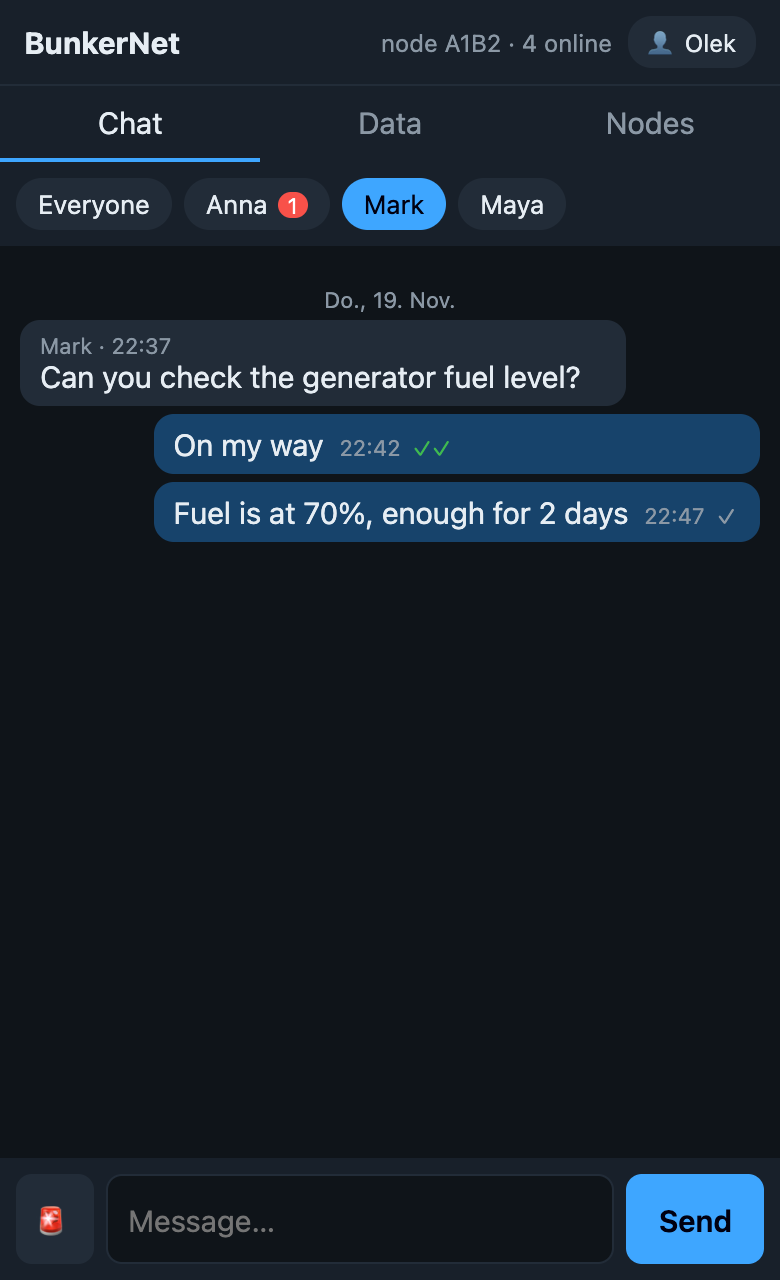
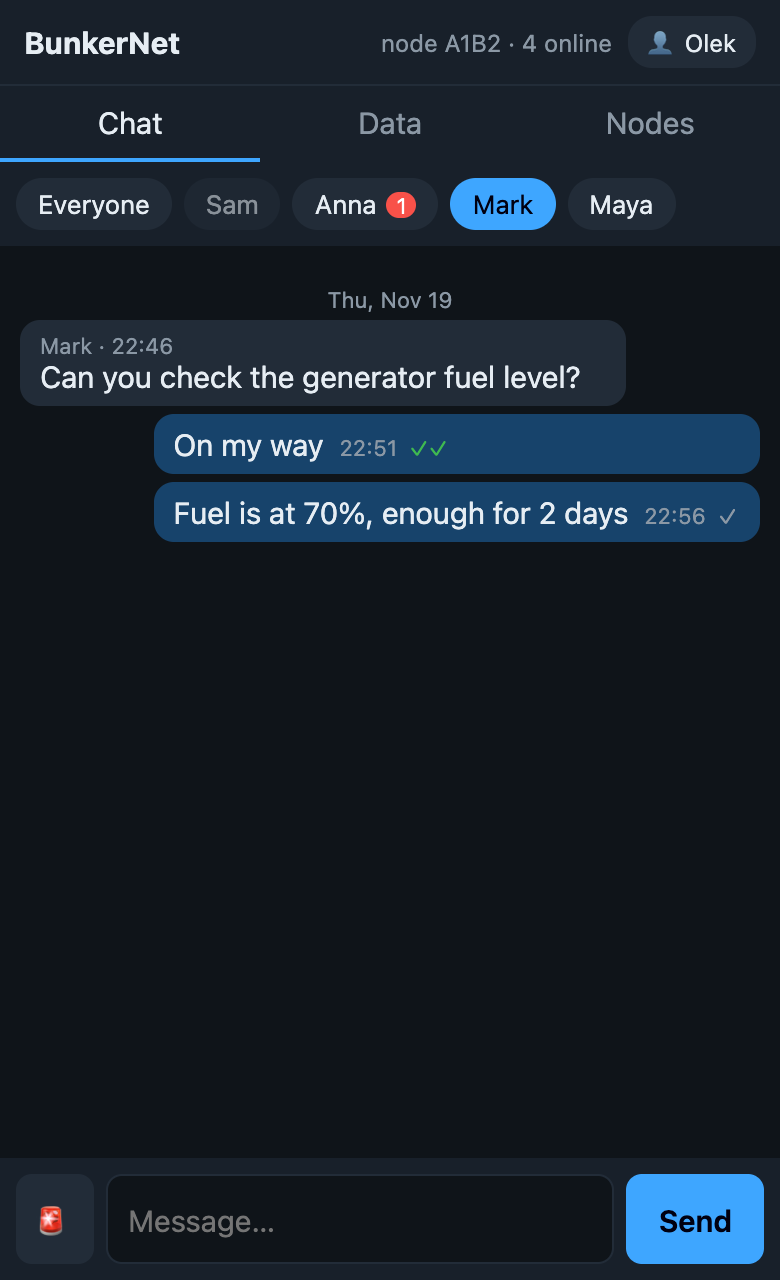
Add store-and-forward for private messages to offline users
Every node keeps a 12-message mailbox until a delivery receipt is seen; the
recipient collects held messages from any node when they next appear, and the
origin re-floods undelivered messages on a back-off schedule. The web app
remembers contacts, shows stored status, and resyncs when roaming between nodes.

diff --git a/tools/screenshots/shoot.js b/tools/screenshots/shoot.js
@@ -8,23 +8,31 @@ const path = require('path');
 
 const CHROME = process.env.CHROME || '/Applications/Google Chrome.app/Contents/MacOS/Google Chrome';
 const OUT = path.join(__dirname, '../../docs/screenshots');
-const MOCK = 8099, CDP = 9333;
+const MOCK = 8099;
 const sleep = (ms) => new Promise((r) => setTimeout(r, ms));
 
 async function main() {
   fs.mkdirSync(OUT, { recursive: true });
   const mock = spawn('node', [path.join(__dirname, 'mock_server.js'), String(MOCK)], { stdio: 'ignore' });
   const profile = fs.mkdtempSync(path.join(os.tmpdir(), 'bn-shot-'));
-  const chrome = spawn(CHROME, [
-    '--headless=new', `--remote-debugging-port=${CDP}`, `--user-data-dir=${profile}`,
-    '--no-first-run', '--lang=en-US', '--hide-scrollbars', 'about:blank',
-  ], { stdio: 'ignore' });
-  try {
-    let targets;
-    for (let i = 0; i < 100 && !targets; i++) {
-      try { targets = await (await fetch(`http://127.0.0.1:${CDP}/json`)).json(); } catch { await sleep(300); }
+  let chrome, CDP, targets;
+  // Chrome picks a free debugging port and writes it to DevToolsActivePort in the profile dir.
+  // Occasionally it does not come up (e.g. right after a previous run), so retry a few times.
+  for (let attempt = 0; attempt < 4 && !targets; attempt++) {
+    chrome = spawn(CHROME, [
+      '--headless=new', '--remote-debugging-port=0', `--user-data-dir=${profile}`,
+      '--no-first-run', '--lang=en-US', '--hide-scrollbars', 'about:blank',
+    ], { stdio: 'ignore' });
+    for (let i = 0; i < 40 && !targets; i++) {
+      try {
+        CDP = fs.readFileSync(path.join(profile, 'DevToolsActivePort'), 'utf8').split('\n')[0];
+        targets = await (await fetch(`http://127.0.0.1:${CDP}/json`)).json();
+      } catch { await sleep(300); }
     }
-    if (!targets) throw new Error("Chrome remote debugging port did not come up");
+    if (!targets) { chrome.kill('SIGKILL'); await sleep(1500); }
+  }
+  try {
+    if (!targets) throw new Error('Chrome remote debugging port did not come up');
     const page = targets.find((t) => t.type === 'page');
     const ws = new WebSocket(page.webSocketDebuggerUrl);
     await new Promise((r) => (ws.onopen = r));
@@ -41,11 +49,11 @@ async function main() {
 
     await cdp('Page.enable');
     await cdp('Emulation.setDeviceMetricsOverride', { width: 390, height: 640, deviceScaleFactor: 2, mobile: true });
-    await cdp('Emulation.setEmulatedMedia', { features: [] });
+    await cdp('Emulation.setLocaleOverride', { locale: 'en-US' });
     const open = async () => {
       await cdp('Page.navigate', { url: `http://127.0.0.1:${MOCK}/` });
       await sleep(600);
-      await js("localStorage.setItem('uid','0000d004');localStorage.setItem('name','Olek');location.reload()");
+      await js("localStorage.setItem('uid','0000d004');localStorage.setItem('contacts','{\"0000e005\":\"Sam\"}');localStorage.setItem('name','Olek');location.reload()");
       await sleep(1200);
     };
 
@@ -55,6 +63,9 @@ async function main() {
 
     await js("document.querySelector('.chip[data-c=\"0000b002\"]').click()");
     await shot('private');
+
+    await js("document.querySelector('.chip[data-c=\"0000e005\"]').click()");
+    await shot('offline');
 
     await js("document.querySelector('nav button[data-t=data]').click()");
     await shot('data');

diff --git a/tools/screenshots/mock_server.js b/tools/screenshots/mock_server.js
@@ -9,7 +9,7 @@ const port = Number(process.argv[2] || 8080);
 const src = fs.readFileSync(path.join(__dirname, '../../firmware/bunkernet/web_ui.h'), 'utf8');
 const html = src.match(/R"HTML\(([\s\S]*?)\)HTML"/)[1];
 
-const ANNA = '0000a001', MARK = '0000b002', MAYA = '0000c003';
+const ANNA = '0000a001', MARK = '0000b002', MAYA = '0000c003', SAM = '0000e005'; // Sam is offline
 const state = { alert: false };
 
 // f === 'me' is replaced by the requesting client's id
@@ -23,6 +23,7 @@ const msgs = [
   { i: 7, t: 2, f: 'me', to: MARK, m: '00000007', n: 'Olek', x: 'On my way', ago: 900 },
   { i: 8, t: 2, f: 'me', to: MARK, m: '00000008', n: 'Olek', x: 'Fuel is at 70%, enough for 2 days', ago: 600 },
   { i: 9, t: 2, f: ANNA, to: 'me', m: '00000009', n: 'Anna', x: 'Are you bringing the fuses?', ago: 300 },
+  { i: 11, t: 2, f: 'me', to: SAM, m: '0000000b', n: 'Olek', x: 'Filter instructions are taped to the fridge', ago: 240 },
   { i: 10, t: 5, f: MARK, to: 'me', m: '00000007', n: '', x: '', ago: 590 },
 ];
 const users = [{ id: ANNA, n: 'Anna' }, { id: MARK, n: 'Mark' }, { id: MAYA, n: 'Maya' }];

diff --git a/firmware/bunkernet/web_ui.h b/firmware/bunkernet/web_ui.h
@@ -16,7 +16,7 @@ main{flex:1;overflow:auto;padding:10px;display:none}main.on{display:block}
 #chat.on{display:flex;flex-direction:column;padding:0}
 #convs{display:flex;gap:6px;overflow-x:auto;padding:8px;background:var(--p)}
 .chip{white-space:nowrap;padding:5px 11px;border-radius:14px;background:var(--p2);color:var(--t);border:0;font:inherit;font-size:13px}
-.chip.on{background:var(--a);color:#001}.chip i{font-style:normal;background:var(--r);color:#fff;border-radius:8px;padding:0 5px;margin-left:5px;font-size:11px}
+.chip.off{opacity:.55}.chip.on{background:var(--a);color:#001}.chip i{font-style:normal;background:var(--r);color:#fff;border-radius:8px;padding:0 5px;margin-left:5px;font-size:11px}
 #msgs{flex:1;overflow:auto;padding:10px}
 .m{max-width:82%;margin:4px 0;padding:6px 10px;border-radius:10px;background:var(--p2);word-wrap:break-word}
 .m.me{margin-left:auto;background:#17436b}.m small{display:block;color:var(--m);font-size:11px}
@@ -46,8 +46,11 @@ table{width:100%;border-collapse:collapse}td,th{padding:7px 4px;border-bottom:1p
 const $=s=>document.querySelector(s),E=s=>String(s).replace(/[&<>"]/g,c=>({'&':'&amp;','<':'&lt;','>':'&gt;','"':'&quot;'}[c]));
 const ls=(k,v)=>{try{if(v===undefined)return localStorage.getItem(k);localStorage.setItem(k,v)}catch(e){return null}};
 let me=ls('uid');if(!me){me=('0000000'+((Math.random()*4294967294+1)>>>0).toString(16)).slice(-8);ls('uid',me)}
-let name=ls('name')||'',since=0,dv=-1,av=-1,alerts=[],seenAl={},hidAl={},alertMode=0,msgs=[],acked=new Set(),users=[],unread={},cur='all',busy=0,tab='chat',node='';
-const uname=id=>{const u=users.find(u=>u.id==id);return u?u.n:id.slice(0,4)};
+let name=ls('name')||'',since=0,dv=-1,av=-1,alerts=[],seenAl={},hidAl={},alertMode=0,msgs=[],acked=new Set(),users=[],unread={},cur='all',busy=0,tab='chat',node='',seenM=new Set(),contacts={};
+try{contacts=JSON.parse(ls('contacts')||'{}')}catch(e){}
+const online=id=>users.some(u=>u.id==id);
+const uname=id=>{const u=users.find(u=>u.id==id);return u?u.n:(contacts[id]||id.slice(0,4))};
+const ph=()=>alertMode?'Emergency alert text…':(cur!='all'&&!online(cur)?uname(cur)+' is offline: will be stored':'Message…');
 function askName(edit){if(name&&!edit)return;$('#ni2').value=name;$('#nc').hidden=!name;$('#nm').hidden=0;$('#ni2').focus()}
 function who(){$('#who').textContent='👤 '+(name||'?')}
 $('#who').onclick=()=>askName(1);$('#nc').onclick=()=>{$('#nm').hidden=1};
@@ -60,17 +63,21 @@ document.querySelectorAll('nav button').forEach(b=>b.onclick=()=>{tab=b.dataset.
 const key=m=>m.t==1?'all':(m.f==me?m.to:m.f);
 function render(){
  let h='<button class="chip'+(cur=='all'?' on':'')+'" data-c="all">Everyone'+(unread.all?'<i>'+unread.all+'</i>':'')+'</button>';
- users.filter(u=>u.id!=me).forEach(u=>h+='<button class="chip'+(cur==u.id?' on':'')+'" data-c="'+u.id+'">'+E(u.n)+(unread[u.id]?'<i>'+unread[u.id]+'</i>':'')+'</button>');
+ const peers={};Object.keys(contacts).forEach(id=>peers[id]={id,n:contacts[id],off:1});users.forEach(u=>peers[u.id]={id:u.id,n:u.n,off:0});delete peers[me];
+ Object.values(peers).forEach(u=>h+='<button class="chip'+(u.off?' off':'')+(cur==u.id?' on':'')+'" data-c="'+u.id+'">'+E(u.n)+(unread[u.id]?'<i>'+unread[u.id]+'</i>':'')+'</button>');
  $('#convs').innerHTML=h;
  $('#convs').querySelectorAll('.chip').forEach(c=>c.onclick=()=>{cur=c.dataset.c;unread[cur]=0;render()});
  const box=$('#msgs'),stick=box.scrollTop+box.clientHeight>=box.scrollHeight-40;
- let ld='';box.innerHTML=msgs.filter(m=>key(m)==cur).map(m=>{const mine=m.f==me,dk=dayk(m.ms);let h='';if(dk!=ld){ld=dk;h='<div class="day">'+dlab(m.ms)+'</div>'}
-  return h+'<div class="m'+(mine?' me':'')+'">'+(mine?'':'<small>'+E(m.n)+' · '+tm(m.ms)+'</small>')+E(m.x)+(mine?'<s class="t">'+tm(m.ms)+'</s>'+(m.t==2?'<s class="'+(acked.has(m.m)?'ok">✓✓':'">✓')+'</s>':''):'')+'</div>'}).join('');
+ let ld='';$('#x').placeholder=ph();
+ box.innerHTML=msgs.filter(m=>key(m)==cur).sort((a,b)=>a.ms-b.ms).map(m=>{const mine=m.f==me,dk=dayk(m.ms);let h='';if(dk!=ld){ld=dk;h='<div class="day">'+dlab(m.ms)+'</div>'}
+  return h+'<div class="m'+(mine?' me':'')+'">'+(mine?'':'<small>'+E(m.n)+' · '+tm(m.ms)+'</small>')+E(m.x)+(mine?'<s class="t">'+tm(m.ms)+'</s>'+(m.t==2?'<s class="'+(acked.has(m.m)?'ok">✓✓':'">'+(online(m.to)?'✓':'⏳ stored'))+'</s>':''):'')+'</div>'}).join('');
  if(stick)box.scrollTop=box.scrollHeight}
 async function poll(){if(busy||!name)return;busy=1;
  try{const r=await fetch('/poll?since='+since+'&me='+me+'&name='+encodeURIComponent(name)+'&dv='+dv+'&av='+av,{cache:'no-store'});const j=await r.json();
+  if(node&&j.node!=node){node=j.node;since=0;busy=0;return}   // roamed to another node: its log numbering differs, resync
   node=j.node;users=j.users;since=j.last;
-  j.msgs.forEach(m=>{if(m.t==5){acked.add(m.m);return}m.ms=m.s?m.s*1000:Date.now();msgs.push(m);const k=key(m);if(k!=cur&&m.f!=me)unread[k]=(unread[k]||0)+1});
+  users.forEach(u=>{if(u.id!=me&&contacts[u.id]!=u.n){contacts[u.id]=u.n;ls('contacts',JSON.stringify(contacts))}});
+  j.msgs.forEach(m=>{if(m.t==5){acked.add(m.m);return}if(seenM.has(m.m))return;seenM.add(m.m);m.ms=m.s?m.s*1000:Date.now();msgs.push(m);const k=key(m);if(k!=cur&&m.f!=me)unread[k]=(unread[k]||0)+1});
   if(msgs.length>300)msgs=msgs.slice(-300);
   if(j.data){dv=j.dv;$('#dt').innerHTML=j.data.map(d=>'<tr><td>'+E(d.k)+'</td><td>'+E(d.v)+'</td><td>'+E(uname(d.f))+'</td><td>'+(d.s?stamp(d.s*1000):'–')+'</td></tr>').join('')||'<tr><td colspan=4 style="color:var(--m)">No data yet</td></tr>'}
   if(j.alerts){av=j.av;alerts=j.alerts;let nw=0;alerts.forEach(a=>{if(!seenAl[a.m]){seenAl[a.m]=1;nw=1}});if(nw){try{navigator.vibrate([400,150,400,150,400])}catch(e){}beep()}drawAl()}
@@ -79,7 +86,7 @@ async function poll(){if(busy||!name)return;busy=1;
 function beep(){try{const c=new(window.AudioContext||window.webkitAudioContext)(),o=c.createOscillator();o.type='square';o.frequency.value=880;o.connect(c.destination);o.start();o.stop(c.currentTime+.6)}catch(e){}}
 function drawAl(){$('#al').innerHTML=alerts.filter(a=>!hidAl[a.m]).map(a=>'<div class="al"><span>🚨 '+E(a.n)+': '+E(a.x)+'</span><button data-h="'+a.m+'">OK</button><button data-c="'+a.m+'">Clear all</button></div>').join('');
  $('#al').querySelectorAll('button').forEach(b=>b.onclick=()=>{if(b.dataset.h){hidAl[b.dataset.h]=1;drawAl()}else{post('/alertclear',{me,m:b.dataset.c})}})}
-$('#ab').onclick=()=>{alertMode=!alertMode;$('#sb').className='go'+(alertMode?' red':'');$('#sb').textContent=alertMode?'ALERT':'Send';$('#x').placeholder=alertMode?'Emergency alert text…':'Message…'};
+$('#ab').onclick=()=>{alertMode=!alertMode;$('#sb').className='go'+(alertMode?' red':'');$('#sb').textContent=alertMode?'ALERT':'Send';$('#x').placeholder=ph()};
 async function post(u,o){try{await fetch(u,{method:'POST',body:new URLSearchParams(o)})}catch(e){}poll()}
 $('#f').onsubmit=e=>{e.preventDefault();const x=$('#x').value.trim();if(!x)return;$('#x').value='';if(alertMode){$('#ab').click();post('/alert',{me,name,x})}else post('/send',{me,name,ts:Math.floor(Date.now()/1000),to:cur=='all'?'0':cur,x})};
 $('#df').onsubmit=e=>{e.preventDefault();const k=$('#dk').value.trim(),v=$('#dv').value.trim();if(!k)return;$('#dk').value=$('#dv').value='';post('/put',{me,name,ts:Math.floor(Date.now()/1000),k,v})};

diff --git a/README.md b/README.md
@@ -17,6 +17,9 @@ scenario, but it works equally well for a cabin, a festival or a blackout.
   **time stamps and date separators** on every message.
 - **Your name:** the first time you open the page it asks for a name, saved in your browser.
   Tap your name at the top right to change it at any time.
+- **Store-and-forward:** send a private message to someone who is offline and it is held by the
+  mesh and delivered the moment they next open the page, on any node, even hours later.
+  The sender sees ⏳ *stored* until the delivery receipt (✓✓) arrives.
 - **Emergency alerts:** a red banner with sound and vibration on every device on every node,
   repeated for about 5 minutes so briefly-offline nodes still get it. Optional **hardware SOS
   button** (hold 2 s).
@@ -36,9 +39,13 @@ scenario, but it works equally well for a cabin, a festival or a blackout.
 
 The web app is served by every node and works in any phone or laptop browser.
 
-| Group chat | Private chat | Emergency alert | Data board | Node map |
-|:--:|:--:|:--:|:--:|:--:|
-| <img src="docs/screenshots/chat.png" width="170"> | <img src="docs/screenshots/private.png" width="170"> | <img src="docs/screenshots/alert.png" width="170"> | <img src="docs/screenshots/data.png" width="170"> | <img src="docs/screenshots/nodes.png" width="170"> |
+| Group chat | Private chat | Stored for offline user |
+|:--:|:--:|:--:|
+| <img src="docs/screenshots/chat.png" width="200"> | <img src="docs/screenshots/private.png" width="200"> | <img src="docs/screenshots/offline.png" width="200"> |
+
+| Emergency alert | Data board | Node map |
+|:--:|:--:|:--:|
+| <img src="docs/screenshots/alert.png" width="200"> | <img src="docs/screenshots/data.png" width="200"> | <img src="docs/screenshots/nodes.png" width="200"> |
 
 *Screenshots show the real web page with sample data from a mock node. Regenerate them with
 `node tools/screenshots/shoot.js` (needs Node 22+ and Chrome).*
@@ -62,6 +69,13 @@ The web app is served by every node and works in any phone or laptop browser.
 - **Time:** the nodes have no clock (an ESP8266 has no battery-backed RTC), so each message
   carries the sender's own phone or laptop time, and everyone sees the same stamp. If a
   device's clock is wrong its messages will show the wrong time.
+- **Store-and-forward:** every node keeps a copy of each private message (a 12-message
+  mailbox) until a delivery receipt for it is seen. When the recipient next opens the page on
+  any node, that node hands over the message and floods the receipt, so all other nodes
+  drop their copy. The node that originated a message also re-sends it on a back-off schedule
+  (30 s, 1 min, 2 min, 5 min … up to about 10 hours) so nodes that were off or out of range
+  catch up. The browser remembers people it has seen, so you can message someone who is
+  currently offline.
 - **Delivery receipts:** a private message is acknowledged when the recipient's device
   actually fetches it, and the receipt floods back to the sender's node.
 
@@ -187,7 +201,10 @@ Types: chat, DM, presence, beacon, ACK, data, alert. See
   packet spreads, not its contents.
 - The link between a phone and its node is open unless you set `AP_PASSWORD`. Only the node
   to node traffic is encrypted.
-- No persistence. Messages are kept in RAM, about the last 28 per node.
+- No persistence. Messages are kept in RAM, about the last 28 chat messages and 12 stored
+  private messages per node. Stored messages survive as long as at least one node holding
+  them stays powered. If every holder loses power, or more than 12 are waiting, the oldest
+  are lost.
 
 ## Development
 
